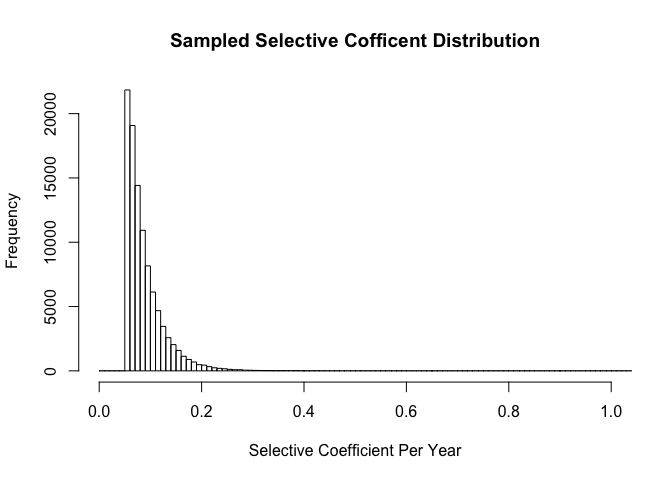
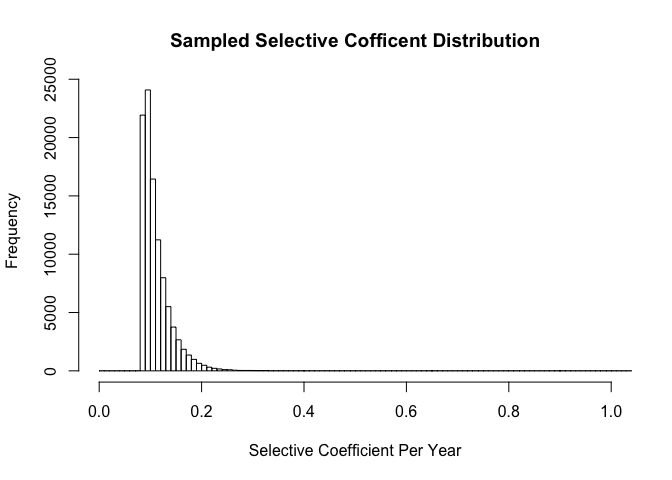
Switch to additive selection model

diff --git a/README.md b/README.md
@@ -1,4 +1,4 @@
-13/01/2021
+04/02/2021
 
 <!-- README.md is generated from README.Rmd. Please edit that file -->
 rsimpop
@@ -123,7 +123,7 @@ get_elapsed_time_tree
 #>     }
 #>     tree
 #> }
-#> <bytecode: 0x7f811de1e8a8>
+#> <bytecode: 0x7f8d7537a3f8>
 #> <environment: namespace:rsimpop>
 sampledtree1m=get_elapsed_time_tree(sampledtree1,mutrateperdivision=1,backgroundrate=15/365)
 plot_tree(sampledtree1m,cex.label = 0.5);title("Sampled Zygote Tree: Mutation Tree")
@@ -207,6 +207,19 @@ plot_tree_events(sampledtree1a)
     #> 1  0:0 #E41A1C  19
     #> 2  1:0 #377EB8  19
     #> 3  2:0 #4DAF4A  19
+    #>    value driverid node       ts fitness key     col pch idx
+    #> 1      0        0    1   0.0000       0 0:0 #E41A1C  19   1
+    #> 2      1        0  103   0.0000       0 1:0 #377EB8  19   2
+    #> 3      2        0    6 131.9789       0 2:0 #4DAF4A  19  15
+    #> 4      2        0   31 131.9789       0 2:0 #4DAF4A  19  65
+    #> 5      2        0   32 131.9789       0 2:0 #4DAF4A  19  67
+    #> 6      2        0   42 131.9789       0 2:0 #4DAF4A  19  89
+    #> 7      2        0   50 131.9789       0 2:0 #4DAF4A  19 102
+    #> 8      2        0   66 131.9789       0 2:0 #4DAF4A  19 135
+    #> 9      2        0   91 131.9789       0 2:0 #4DAF4A  19 185
+    #> 10     2        0   92 131.9789       0 2:0 #4DAF4A  19 186
+    #> 11     2        0   99 131.9789       0 2:0 #4DAF4A  19 197
+    #> 12     2        0  101 131.9789       0 2:0 #4DAF4A  19 200
     #> 
     #> Phylogenetic tree with 101 tips and 100 internal nodes.
     #> 
@@ -247,6 +260,17 @@ plot_tree_events(sampledtree2,cex.label = 0.5)
     #> 1  0:0 #E41A1C  19
     #> 2  1:0 #377EB8  19
     #> 3  2:0 #4DAF4A  19
+    #>    value driverid node       ts fitness key     col pch idx
+    #> 1      0        0    1   0.0000       0 0:0 #E41A1C  19   1
+    #> 2      1        0  103   0.0000       0 1:0 #377EB8  19   2
+    #> 3      2        0  111 131.9789       0 2:0 #4DAF4A  19  10
+    #> 4      2        0  122 131.9789       0 2:0 #4DAF4A  19  33
+    #> 5      2        0  153 131.9789       0 2:0 #4DAF4A  19  94
+    #> 6      2        0  167 131.9789       0 2:0 #4DAF4A  19 125
+    #> 7      2        0  183 131.9789       0 2:0 #4DAF4A  19 157
+    #> 8      2        0  184 131.9789       0 2:0 #4DAF4A  19 161
+    #> 9      2        0  188 131.9789       0 2:0 #4DAF4A  19 171
+    #> 10     2        0  195 131.9789       0 2:0 #4DAF4A  19 184
     #> 
     #> Phylogenetic tree with 101 tips and 100 internal nodes.
     #> 
@@ -347,7 +371,7 @@ run_selection_sim
 #>     fulltree$gdivkeep = gdivkeep
 #>     return(fulltree)
 #> }
-#> <bytecode: 0x7f8120750e90>
+#> <bytecode: 0x7f8d767097e0>
 #> <environment: namespace:rsimpop>
 selsim=run_selection_sim(0.05,1/(2*190),target_pop_size = 5e4,nyears = 50,fitness=0.3)
 #> n_sim_days: 5475
@@ -425,6 +449,10 @@ plot_tree_events(seltree100,cex.label = 0);title("Selection Based Tree: Branch L
 #> 1  0:0 #E41A1C  19
 #> 2  1:0 #377EB8  19
 #> 3  1:1 #4DAF4A  19
+#>   value driverid node   ts fitness key     col pch idx
+#> 1     0        0    1    0     0.0 0:0 #E41A1C  19   1
+#> 2     1        0  103    0     0.0 1:0 #377EB8  19   2
+#> 3     1        1  109 5475     0.3 1:1 #4DAF4A  19   8
 #> 
 #> Phylogenetic tree with 101 tips and 100 internal nodes.
 #> 
@@ -443,6 +471,10 @@ tree=plot_tree_events(seltree100rt,cex.label = 0);title("Selection Based Tree: B
 #> 1  0:0 #E41A1C  19
 #> 2  1:0 #377EB8  19
 #> 3  1:1 #4DAF4A  19
+#>   value driverid node   ts fitness key     col pch idx
+#> 1     0        0    1    0     0.0 0:0 #E41A1C  19   1
+#> 2     1        0  103    0     0.0 1:0 #377EB8  19   2
+#> 3     1        1  109 5475     0.3 1:1 #4DAF4A  19   8
 ```
 
 <img src="man/figures/README-seltree-2.png" width="100%" />
@@ -455,6 +487,10 @@ plot_tree_events(seltree100m,cex.label = 0.5);title("Selection Based Tree: Branc
 #> 1  0:0 #E41A1C  19
 #> 2  1:0 #377EB8  19
 #> 3  1:1 #4DAF4A  19
+#>   value driverid node   ts fitness key     col pch idx
+#> 1     0        0    1    0     0.0 0:0 #E41A1C  19   1
+#> 2     1        0  103    0     0.0 1:0 #377EB8  19   2
+#> 3     1        1  109 5475     0.3 1:1 #4DAF4A  19   8
 #> 
 #> Phylogenetic tree with 101 tips and 100 internal nodes.
 #> 
@@ -473,6 +509,10 @@ plot_tree_events(seltree100m2,cex.label = 0.5);title("Selection Based Tree: Bran
 #> 1  0:0 #E41A1C  19
 #> 2  1:0 #377EB8  19
 #> 3  1:1 #4DAF4A  19
+#>   value driverid node   ts fitness key     col pch idx
+#> 1     0        0    1    0     0.0 0:0 #E41A1C  19   1
+#> 2     1        0  103    0     0.0 1:0 #377EB8  19   2
+#> 3     1        1  109 5475     0.3 1:1 #4DAF4A  19   8
 #> 
 #> Phylogenetic tree with 101 tips and 100 internal nodes.
 #> 
@@ -505,7 +545,7 @@ run_transient_selection
 #>     final = combine_simpops(selsim, final)
 #>     return(get_tree_from_simpop(final))
 #> }
-#> <bytecode: 0x7f8123ab1390>
+#> <bytecode: 0x7f8d7a28e9b0>
 #> <environment: namespace:rsimpop>
 tselsim=run_transient_selection(0.05,1/(2*190),target_pop_size = 5e4,nyears_driver_acquisition=15,
                                   nyears_transient_end=30,
@@ -651,16 +691,13 @@ Multiple drivers can be generated at a specified rate so the waiting time betwee
 Firstly the user need to create a function that draws a selection coefficient from a distibution. The simulator isn't optimised to maintain 100s of variants at once - so it is suggested that a minumum selective coefficient be specified (say 0.05) and driver incidence made correspondingly rarer.
 
 ``` r
-fitnessGen=function(){
-  trials=rexp(100,rate=30)
-  idx=which(trials>0.05)
-  if(length(idx)==0){
-    fitnessGen()
-  }else{
-    trials[idx[1]]
-  }
+##Function to generate exponential distribution based fitness
+require("truncdist")
+genExpFitness=function(fitness_threshold,rate){
+  function() rtrunc(n=1,a=fitness_threshold, b=Inf,"exp",rate=rate)
 }
-hist(sapply(1:100000,function(i) exp(fitnessGen())-1),breaks=seq(0,100,0.01),xlim=c(0,1),xlab="Selective Coefficient Per Year",main="Sampled Selective Cofficent Distribution")
+fitnessExpFn=genExpFitness(fitness_threshold=0.08,rate=40)
+hist(sapply(1:100000,function(i) exp(fitnessExpFn())-1),breaks=seq(0,100,0.01),xlim=c(0,1),xlab="Selective Coefficient Per Year",main="Sampled Selective Cofficent Distribution")
 ```
 
 <img src="man/figures/README-unnamed-chunk-2-1.png" width="100%" />
@@ -668,29 +705,31 @@ hist(sapply(1:100000,function(i) exp(fitnessGen())-1),breaks=seq(0,100,0.01),xli
 Now run the sim:
 
 ``` r
-dps=run_driver_process_sim(0.1,1/(2*190),target_pop_size = 1e5,nyears = 80,fitness=fitnessGen,drivers_per_year = 1)
+dps=run_driver_process_sim(0.1,1/(2*190),target_pop_size = 1e5,nyears = 80,fitness=fitnessExpFn,drivers_per_year = 1)
 ```
 
 Look at the final per driver counts
 
 ``` r
 print(dps$cfg$info %>% filter(population>0))
-#>   val population   fitness id driver1 driver2 driver3 driver4 driver5 driver6
-#> 1   0          1 0.0000000  0       0       0       0       0       0       0
-#> 2   1      29381 0.0000000  0       0       0       0       0       0       0
-#> 3   1      69744 0.1744176  1       1       0       0       0       0       0
-#> 4   1        788 0.1151932  2       0       1       0       0       0       0
-#> 5   1         32 0.1012092  7       0       0       0       0       0       0
-#> 6   1          1 0.2408516  3       1       0       1       0       0       0
-#> 7   1          1 0.2992108  4       1       0       0       1       0       0
-#>   driver7
-#> 1       0
-#> 2       0
-#> 3       0
-#> 4       0
-#> 5       1
-#> 6       0
-#> 7       0
+#>   val population    fitness id driver1 driver2 driver3 driver4 driver5 driver6
+#> 1   0          1 0.00000000  0       0       0       0       0       0       0
+#> 2   1      18751 0.00000000  0       0       0       0       0       0       0
+#> 3   1         38 0.08735544  1       1       0       0       0       0       0
+#> 4   1        510 0.09996090  5       0       0       0       0       1       0
+#> 5   1      80678 0.22311912  6       0       0       0       0       0       1
+#> 6   1         57 0.08152371  3       0       0       1       0       0       0
+#> 7   1          5 0.08194996  8       0       0       0       0       0       0
+#> 8   1         22 0.30380595  7       0       0       0       0       0       1
+#>   driver7 driver8
+#> 1       0       0
+#> 2       0       0
+#> 3       0       0
+#> 4       0       0
+#> 5       0       0
+#> 6       0       0
+#> 7       0       1
+#> 8       1       0
 ```
 
 Plot an example sampled tree
@@ -710,8 +749,13 @@ plot_tree_events(dpst)
     #>   uval     col pch
     #> 1  0:0 #E41A1C  19
     #> 2  1:0 #377EB8  19
-    #> 3  1:1 #4DAF4A  19
-    #> 4  1:2 #984EA3  19
+    #> 3  1:5 #4DAF4A  19
+    #> 4  1:6 #984EA3  19
+    #>   value driverid node        ts   fitness key     col pch idx
+    #> 1     0        0    1     0.000 0.0000000 0:0 #E41A1C  19   1
+    #> 2     1        0  203     0.000 0.0000000 1:0 #377EB8  19   2
+    #> 3     1        5   23  4981.978 0.0999609 1:5 #4DAF4A  19  46
+    #> 4     1        6  239 10259.551 0.2231191 1:6 #984EA3  19  71
     #> 
     #> Phylogenetic tree with 201 tips and 200 internal nodes.
     #> 
@@ -720,15 +764,20 @@ plot_tree_events(dpst)
     #> 
     #> Rooted; includes branch lengths.
     dpst=get_elapsed_time_tree(dpst,mutrateperdivision = 1,backgroundrate = 19/365)
-    plot_tree_events(dpst)
+    plot_tree_events(dpst,fmode=1)
 
 <img src="man/figures/README-unnamed-chunk-5-2.png" width="100%" />
 
-    #>   uval     col pch
-    #> 1  0:0 #E41A1C  19
-    #> 2  1:0 #377EB8  19
-    #> 3  1:1 #4DAF4A  19
-    #> 4  1:2 #984EA3  19
+    #>       uval     col pch
+    #> 1 0:0:0.00 #E41A1C  19
+    #> 2 1:0:0.00 #377EB8  19
+    #> 3 1:5:0.10 #4DAF4A  19
+    #> 4 1:6:0.22 #984EA3  19
+    #>   value driverid node        ts   fitness      key     col pch idx
+    #> 1     0        0    1     0.000 0.0000000 0:0:0.00 #E41A1C  19   1
+    #> 2     1        0  203     0.000 0.0000000 1:0:0.00 #377EB8  19   2
+    #> 3     1        5   23  4981.978 0.0999609 1:5:0.10 #4DAF4A  19  46
+    #> 4     1        6  239 10259.551 0.2231191 1:6:0.22 #984EA3  19  71
     #> 
     #> Phylogenetic tree with 201 tips and 200 internal nodes.
     #> 
@@ -740,10 +789,10 @@ plot_tree_events(dpst)
 Continue simulating the same individual until the age of 90
 
 ``` r
-dps90=continue_driver_process_sim(dps,90,fitnessGen = fitnessGen)
+dps90=continue_driver_process_sim(dps,90,fitnessGen = fitnessExpFn)
 ```
 
-Note the driver ids are reused once they become extinct so there is no guarantee they are preserved between runs.
+Note the driver ids are reused once they become extinct so there is no guarantee that they are preserved between runs.
 
 ``` r
 dpst=get_subsampled_tree(dps90,200)
@@ -760,7 +809,13 @@ plot_tree_events(dpst)
     #>   uval     col pch
     #> 1  0:0 #E41A1C  19
     #> 2  1:0 #377EB8  19
-    #> 3  1:1 #4DAF4A  19
+    #> 3  1:6 #4DAF4A  19
+    #> 4  1:7 #984EA3  19
+    #>   value driverid node       ts    fitness key     col pch idx
+    #> 1     0        0    1     0.00 0.00000000 0:0 #E41A1C  19   1
+    #> 2     1        0  203     0.00 0.00000000 1:0 #377EB8  19   2
+    #> 3     1        6  207 10259.55 0.22311912 1:6 #4DAF4A  19   8
+    #> 4     1        7  193 26573.88 0.08068683 1:7 #984EA3  19 388
     #> 
     #> Phylogenetic tree with 201 tips and 200 internal nodes.
     #> 

diff --git a/CHANGES.md b/CHANGES.md
@@ -1,5 +1,10 @@
 # CHANGES
 
+## 2.0.4
+
+* Switched from multiplicative to additive selection model for compound drivers
+* Added parameter to plot_tree_events to show selection coefficient on legend.
+
 ## 2.0.3
 
 * Fixed bug in enhanced handling of drivers.
